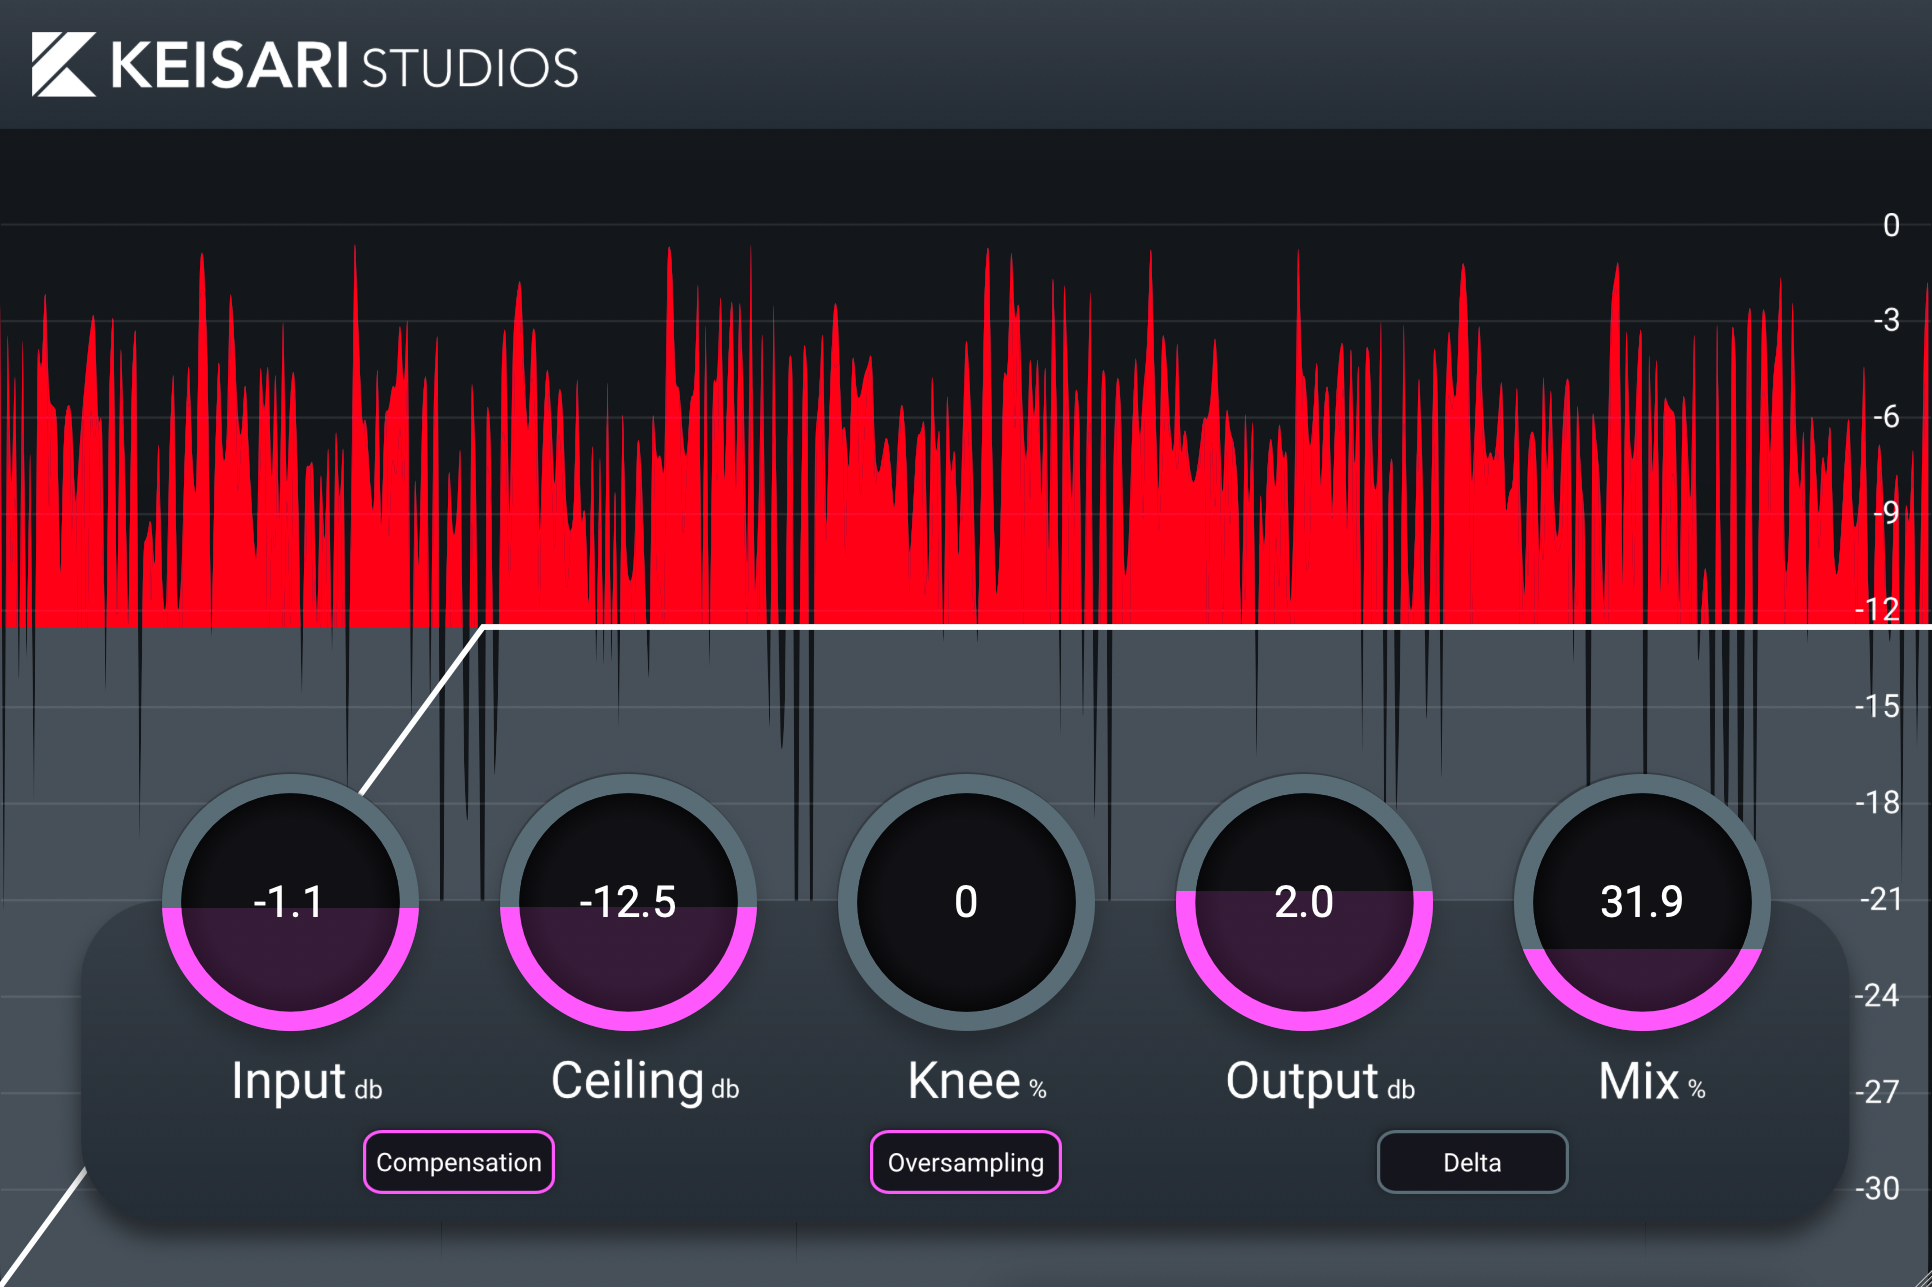
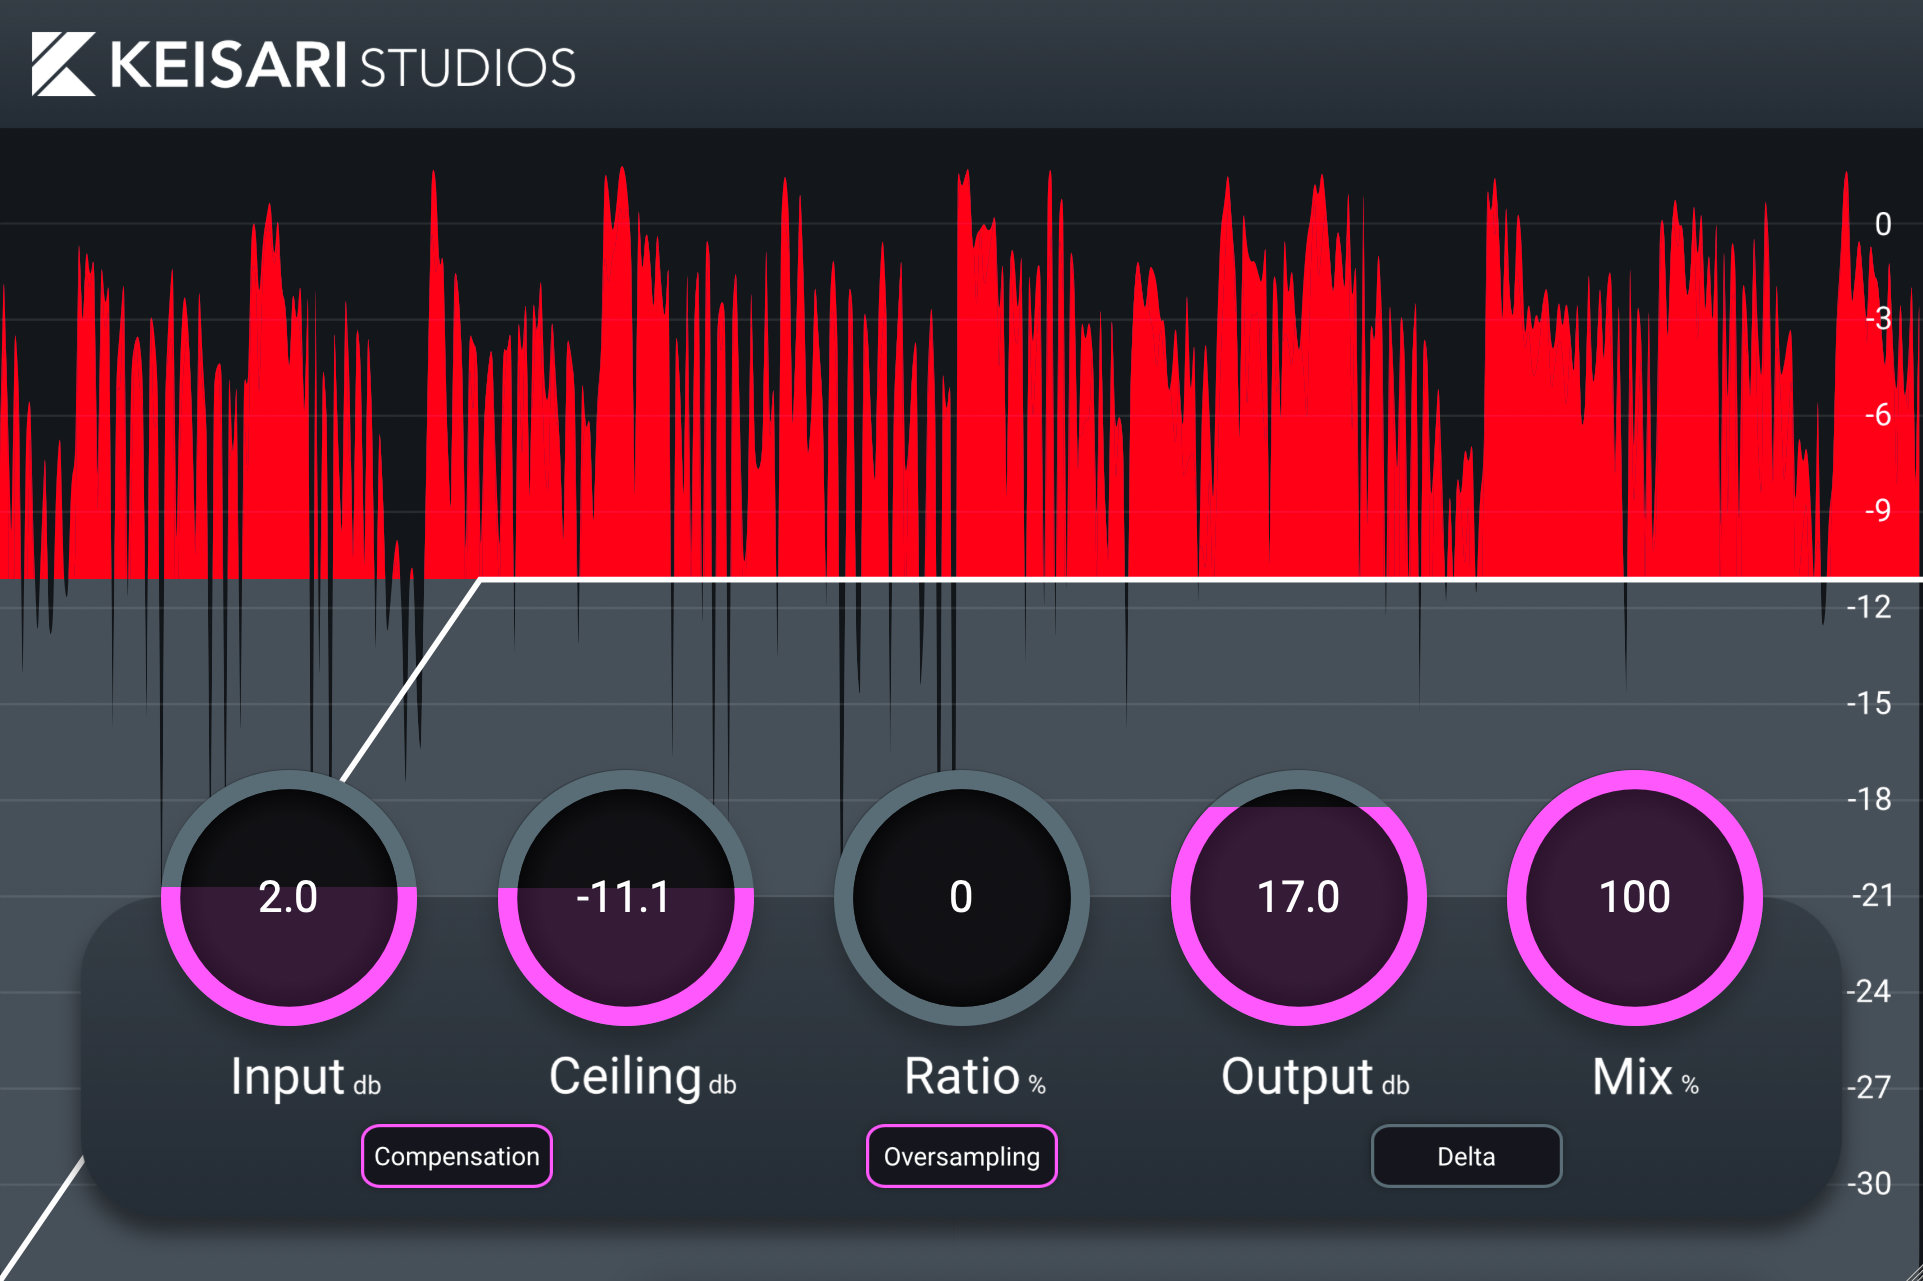
Update Readme to 1.0.1

diff --git a/README.md b/README.md
@@ -8,6 +8,15 @@ Leikkaus is compatible with both Windows and MacOS (Intel/Apple Silicon). Availa
 
 ![User Interface](Docs/User_Interface.jpg)
 
+## Changelog
+### Version 1.0.2 (In development)
+* Show 'Ratio' parameter changes in the ceiling visualizer
+* Show 'Ratio' changes in the red clipped section
+
+### Version 1.0.1
+* Fix visualizer scaling issues
+* Change 'Knee' parameter name to 'Ratio'
+
 ## Download
 
 To download the latest release, visit the [official website](https://keisaristudios.com/plugins/leikkaus).
